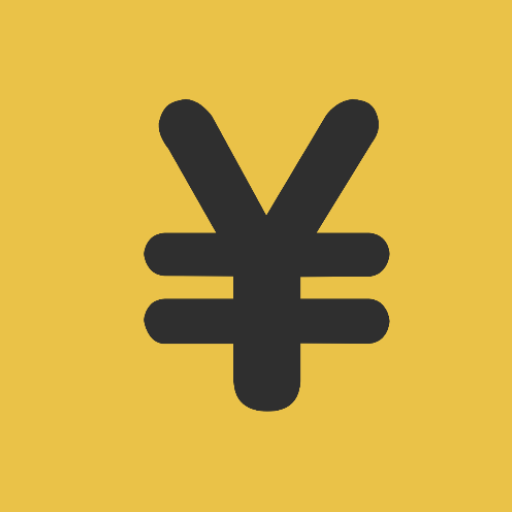
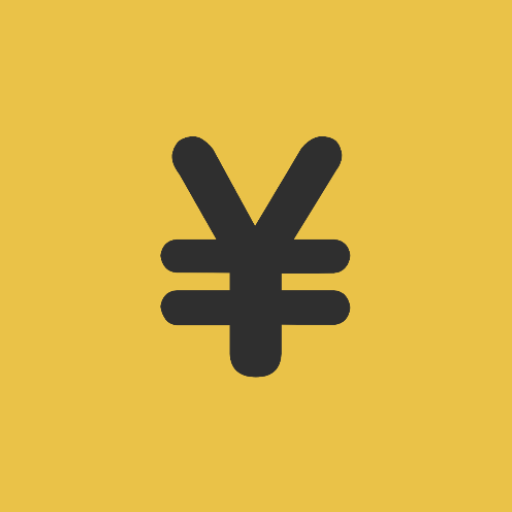
Add 1. "日子记账"应用图标优化 2. 向下兼容更低的安卓10以下系统版本 3. 设置页面图标添加以及硬编码问题修复

Changed region(s): [[0.2812, 0.1875, 0.7812, 0.8125], [0.3125, 0.1875, 0.5625, 0.4375]]

diff --git a/app/src/main/java/com/evening/dailylife/ui/screens/me/MeScreen.kt b/app/src/main/java/com/evening/dailylife/ui/screens/me/MeScreen.kt
@@ -1,13 +1,24 @@
 package com.evening.dailylife.ui.screens.me
 
 import android.os.Build
+import android.widget.Toast
+import androidx.compose.foundation.clickable
+import androidx.compose.foundation.interaction.MutableInteractionSource
 import androidx.compose.foundation.layout.Arrangement
+import androidx.compose.foundation.layout.Box
 import androidx.compose.foundation.layout.PaddingValues
+import androidx.compose.foundation.layout.Spacer
 import androidx.compose.foundation.lazy.LazyColumn
+import androidx.compose.material.icons.Icons
+import androidx.compose.material.icons.outlined.BrightnessMedium
+import androidx.compose.material.icons.outlined.Palette
 import androidx.compose.runtime.Composable
 import androidx.compose.runtime.collectAsState
 import androidx.compose.runtime.getValue
-import androidx.compose.ui.graphics.Color
+import androidx.compose.runtime.remember
+import androidx.compose.ui.Modifier
+import androidx.compose.ui.graphics.vector.rememberVectorPainter
+import androidx.compose.ui.platform.LocalContext
 import androidx.compose.ui.res.painterResource
 import androidx.compose.ui.res.stringResource
 import androidx.compose.ui.unit.dp
@@ -33,8 +44,12 @@ fun MeScreen(
     val isDynamicColorEnabled by viewModel.dynamicColor.collectAsState()
     val themeModePopupMenuState = rememberPopupState()
 
+    val context = LocalContext.current
+    val isDynamicColorSupported = Build.VERSION.SDK_INT >= Build.VERSION_CODES.S
+    val dynamicColorUnsupportedMessage = stringResource(R.string.dynamic_color_unsupported)
+
     RYScaffold(
-        title = "我的",
+        title = stringResource(R.string.me),
         navController = null,
     ) {
         LazyColumn(
@@ -45,29 +60,41 @@ fun MeScreen(
                 RoundedColumn {
                     ItemTitle(text = stringResource(R.string.user_interface))
 
-                    // 动态颜色开关项
-                    // 注意：动态颜色仅在 Android 12 (API 31) 及以上版本可用
-                    if (Build.VERSION.SDK_INT >= Build.VERSION_CODES.S) {
+                    Box {
+                        // ItemSwitcher 正常显示，并根据系统版本决定其可用状态
                         ItemSwitcher(
                             state = isDynamicColorEnabled,
                             onChange = { checked ->
                                 viewModel.setDynamicColor(checked)
                             },
+                            enabled = isDynamicColorSupported, // 根据系统版本决定开关是否可用
                             text = stringResource(R.string.dynamic_color_switcher_text),
                             sub = stringResource(R.string.dynamic_color_switcher_sub),
-                            // IMPORTANT: Create a drawable named 'color.xml'
-                            iconPainter = painterResource(id = R.drawable.ic_launcher_foreground),
-                            iconPaddingValues = PaddingValues(all = 1.7.dp),
+                            iconPainter = rememberVectorPainter(image = Icons.Outlined.Palette),
+                            iconPaddingValues = PaddingValues(all = 1.8.dp),
                             iconColor = SaltTheme.colors.text,
                         )
+
+                        // 覆盖一个透明的、可点击的遮罩层
+                        if (!isDynamicColorSupported) {
+                            Spacer(
+                                modifier = Modifier
+                                    .matchParentSize()
+                                    .clickable(
+                                        indication = null,
+                                        interactionSource = remember { MutableInteractionSource() },
+                                        onClick = {
+                                            Toast.makeText(context, dynamicColorUnsupportedMessage, Toast.LENGTH_SHORT).show()
+                                        }
+                                    )
+                            )
+                        }
                     }
 
-
-                    // Theme Mode Popup
+                    // 主题模式切换弹窗
                     ItemPopup(
                         state = themeModePopupMenuState,
-                        // IMPORTANT: Create a drawable named 'app_theme.xml'
-                        iconPainter = painterResource(id = R.drawable.ic_launcher_foreground),
+                        iconPainter = rememberVectorPainter(image = Icons.Outlined.BrightnessMedium),
                         iconPaddingValues = PaddingValues(all = 1.8.dp),
                         iconColor = SaltTheme.colors.text,
                         text = stringResource(R.string.theme_mode_switcher_text),

diff --git a/app/src/main/java/com/evening/dailylife/ui/component/MySaltUi.kt b/app/src/main/java/com/evening/dailylife/ui/component/MySaltUi.kt
@@ -1,5 +1,6 @@
 package com.evening.dailylife.ui.component
 
+import android.annotation.SuppressLint
 import androidx.compose.foundation.Image
 import androidx.compose.foundation.gestures.detectTapGestures
 import androidx.compose.foundation.interaction.MutableInteractionSource
@@ -31,27 +32,23 @@ import androidx.compose.ui.layout.onGloballyPositioned
 import androidx.compose.ui.platform.LocalConfiguration
 import androidx.compose.ui.platform.LocalContext
 import androidx.compose.ui.res.painterResource
-import androidx.compose.ui.text.font.FontWeight
 import androidx.compose.ui.text.style.TextAlign
 import androidx.compose.ui.unit.DpOffset
 import androidx.compose.ui.unit.dp
 import androidx.compose.ui.unit.sp
-import androidx.compose.ui.window.DialogProperties
 import com.evening.dailylife.R
 import com.evening.dailylife.util.Tools
-import com.moriafly.salt.ui.ItemOutSpacer
 import com.moriafly.salt.ui.SaltTheme
 import com.moriafly.salt.ui.Text
-import com.moriafly.salt.ui.TextButton
 import com.moriafly.salt.ui.UnstableSaltApi
-import com.moriafly.salt.ui.dialog.BasicDialog
 import com.moriafly.salt.ui.popup.PopupMenu
 import com.moriafly.salt.ui.popup.PopupState
 
 
+@SuppressLint("ConfigurationScreenWidthHeight")
 @UnstableSaltApi
 @Composable
-fun ItemPopup(  //TODO 根据文字长度自动调整宽度
+fun ItemPopup(
     state: PopupState,
     enabled: Boolean = true,
     iconPainter: Painter? = null,

diff --git a/app/src/main/java/com/evening/dailylife/ui/navigation/Screen.kt b/app/src/main/java/com/evening/dailylife/ui/navigation/Screen.kt
@@ -1,17 +1,20 @@
 package com.evening.dailylife.ui.navigation
 
+import androidx.annotation.StringRes
 import androidx.compose.material.icons.Icons
 import androidx.compose.material.icons.filled.BarChart
 import androidx.compose.material.icons.filled.Explore
 import androidx.compose.material.icons.filled.List
 import androidx.compose.material.icons.filled.Person
 import androidx.compose.ui.graphics.vector.ImageVector
+import com.evening.dailylife.R
 
-sealed class Screen(val route: String, val label: String, val icon: ImageVector) {
-    object Details : Screen(Route.Details, "明细", Icons.Default.List)
-    object Chart : Screen(Route.Chart, "图表", Icons.Default.BarChart)
-    object Discover : Screen(Route.Discover, "发现", Icons.Default.Explore)
-    object Me : Screen(Route.Me, "我的", Icons.Default.Person)
+sealed class Screen(val route: String, @StringRes val labelResId: Int, val icon: ImageVector) {
+    // 2. 传入正确的 String 资源 ID
+    object Details : Screen(Route.Details, R.string.details, Icons.Default.List)
+    object Chart : Screen(Route.Chart, R.string.chart, Icons.Default.BarChart)
+    object Discover : Screen(Route.Discover, R.string.discover, Icons.Default.Explore)
+    object Me : Screen(Route.Me, R.string.me, Icons.Default.Person)
 }
 
 val items = listOf(

diff --git a/app/src/main/java/com/evening/dailylife/ui/screens/main/HomeScreen.kt b/app/src/main/java/com/evening/dailylife/ui/screens/main/HomeScreen.kt
@@ -10,6 +10,7 @@ import androidx.compose.material3.Text
 import androidx.compose.runtime.Composable
 import androidx.compose.runtime.getValue
 import androidx.compose.ui.Modifier
+import androidx.compose.ui.res.stringResource
 import androidx.navigation.NavDestination.Companion.hierarchy
 import androidx.navigation.NavGraph.Companion.findStartDestination
 import androidx.navigation.compose.currentBackStackEntryAsState
@@ -34,7 +35,7 @@ fun HomeScreen(
                 items.forEach { screen ->
                     NavigationBarItem(
                         icon = { Icon(screen.icon, contentDescription = null) },
-                        label = { Text(screen.label) },
+                        label = { Text(stringResource(id = screen.labelResId)) },
                         selected = currentDestination?.hierarchy?.any { it.route == screen.route } == true,
                         onClick = {
                             navController.navigate(screen.route) {

diff --git a/app/src/main/java/com/evening/dailylife/data/preferences/PreferencesManager.kt b/app/src/main/java/com/evening/dailylife/data/preferences/PreferencesManager.kt
@@ -19,9 +19,6 @@ class PreferencesManager @Inject constructor(@ApplicationContext context: Contex
         private const val KEY_DYNAMIC_COLOR = "dynamic_color"
     }
 
-    // --- 改动开始 ---
-
-    // 1. 将 themeMode 改造为 StateFlow
     private val _themeMode = MutableStateFlow(
         try {
             val themeName = fastKV.getString(KEY_THEME_MODE, ThemeMode.SYSTEM.name) ?: ThemeMode.SYSTEM.name
@@ -47,5 +44,4 @@ class PreferencesManager @Inject constructor(@ApplicationContext context: Contex
         _dynamicColor.value = enabled // 更新 Flow 的值，通知所有观察者
     }
 
-    // --- 改动结束 ---
 }

diff --git a/app/src/main/java/com/evening/dailylife/ui/screens/me/MeViewModel.kt b/app/src/main/java/com/evening/dailylife/ui/screens/me/MeViewModel.kt
@@ -11,11 +11,11 @@ class MeViewModel @Inject constructor(
     private val preferencesManager: PreferencesManager
 ) : ViewModel() {
 
-    // 同样，直接暴露状态
+    // 直接暴露状态
     val themeMode = preferencesManager.themeMode
     val dynamicColor = preferencesManager.dynamicColor
 
-    // setter 方法现在直接调用 PreferencesManager 的方法
+    // setter 直接调用 PreferencesManager 的方法
     fun setThemeMode(themeMode: ThemeMode) {
         preferencesManager.setThemeMode(themeMode)
     }

diff --git a/app/src/main/java/com/evening/dailylife/util/NavigationExtensions.kt b/app/src/main/java/com/evening/dailylife/util/NavigationExtensions.kt
@@ -10,7 +10,6 @@ fun NavHostController.debouncedPopBackStack() {
     if (currentRoute != null && previousRoute != null) {
         this.popBackStack()
     } else {
-        // 使用更具体的日志标签
         Log.w("AppNavigation", "Attempted to pop from an empty back stack.")
     }
 }

diff --git a/app/src/main/java/com/evening/dailylife/ui/screens/discover/DiscoverScreen.kt b/app/src/main/java/com/evening/dailylife/ui/screens/discover/DiscoverScreen.kt
@@ -9,7 +9,7 @@ import androidx.compose.ui.Modifier
 
 @Composable
 fun DiscoverScreen() {
-    // 这里是你的发现页面内容
+    // 这里是发现页面内容
     Box(modifier = Modifier.fillMaxSize(), contentAlignment = Alignment.Center) {
         Text("发现页面")
     }

diff --git a/app/src/main/java/com/evening/dailylife/ui/screens/details/DetailsScreen.kt b/app/src/main/java/com/evening/dailylife/ui/screens/details/DetailsScreen.kt
@@ -9,7 +9,7 @@ import androidx.compose.ui.Modifier
 
 @Composable
 fun DetailsScreen() {
-    // 这里是你的明细页面内容
+    // 这里是明细页面内容
     Box(modifier = Modifier.fillMaxSize(), contentAlignment = Alignment.Center) {
         Text("明细页面")
     }

diff --git a/app/src/main/java/com/evening/dailylife/ui/screens/chart/ChartScreen.kt b/app/src/main/java/com/evening/dailylife/ui/screens/chart/ChartScreen.kt
@@ -9,7 +9,7 @@ import androidx.compose.ui.Modifier
 
 @Composable
 fun ChartScreen() {
-    // 这里是你的图表页面内容
+    // 这里是图表页面内容
     Box(modifier = Modifier.fillMaxSize(), contentAlignment = Alignment.Center) {
         Text("图表页面")
     }
